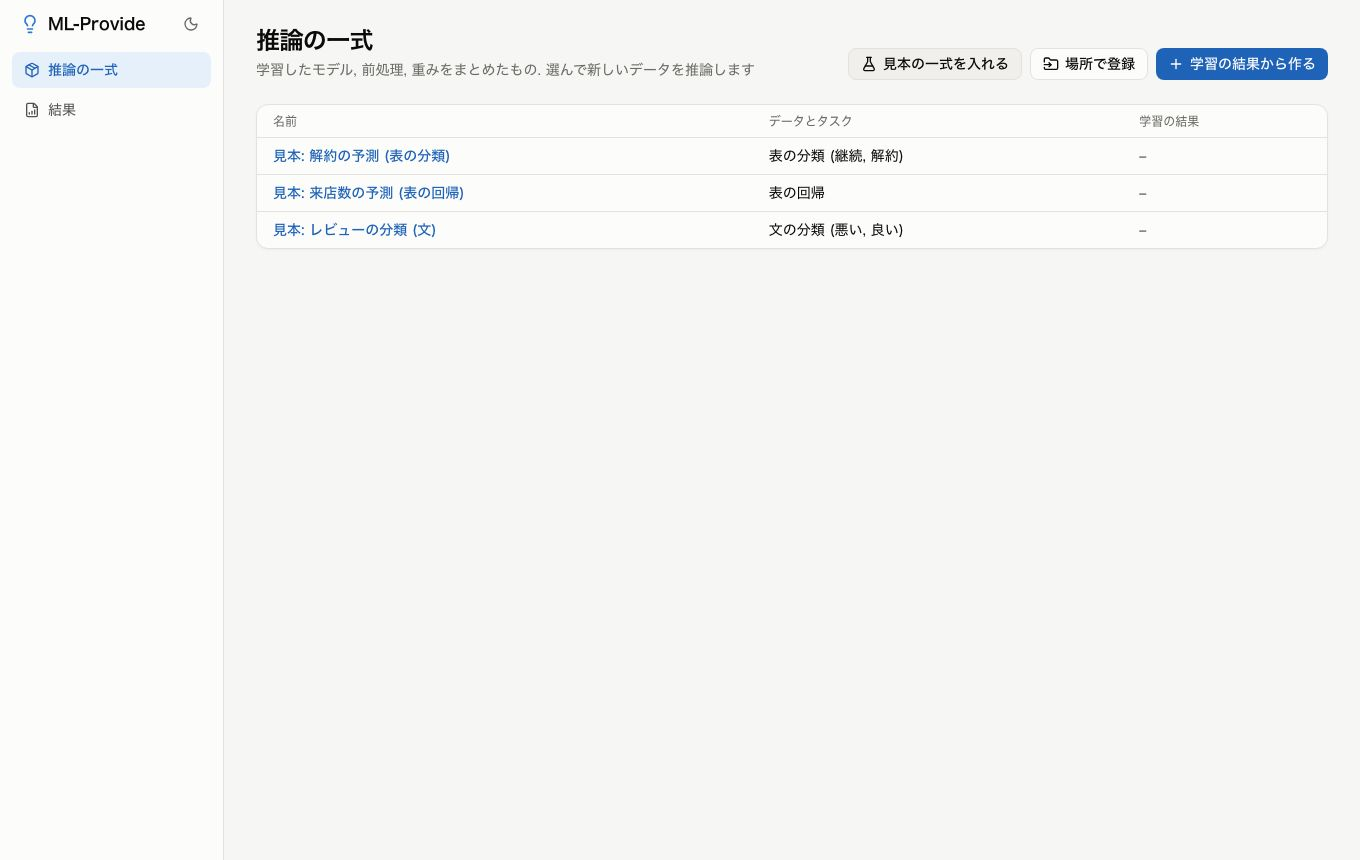
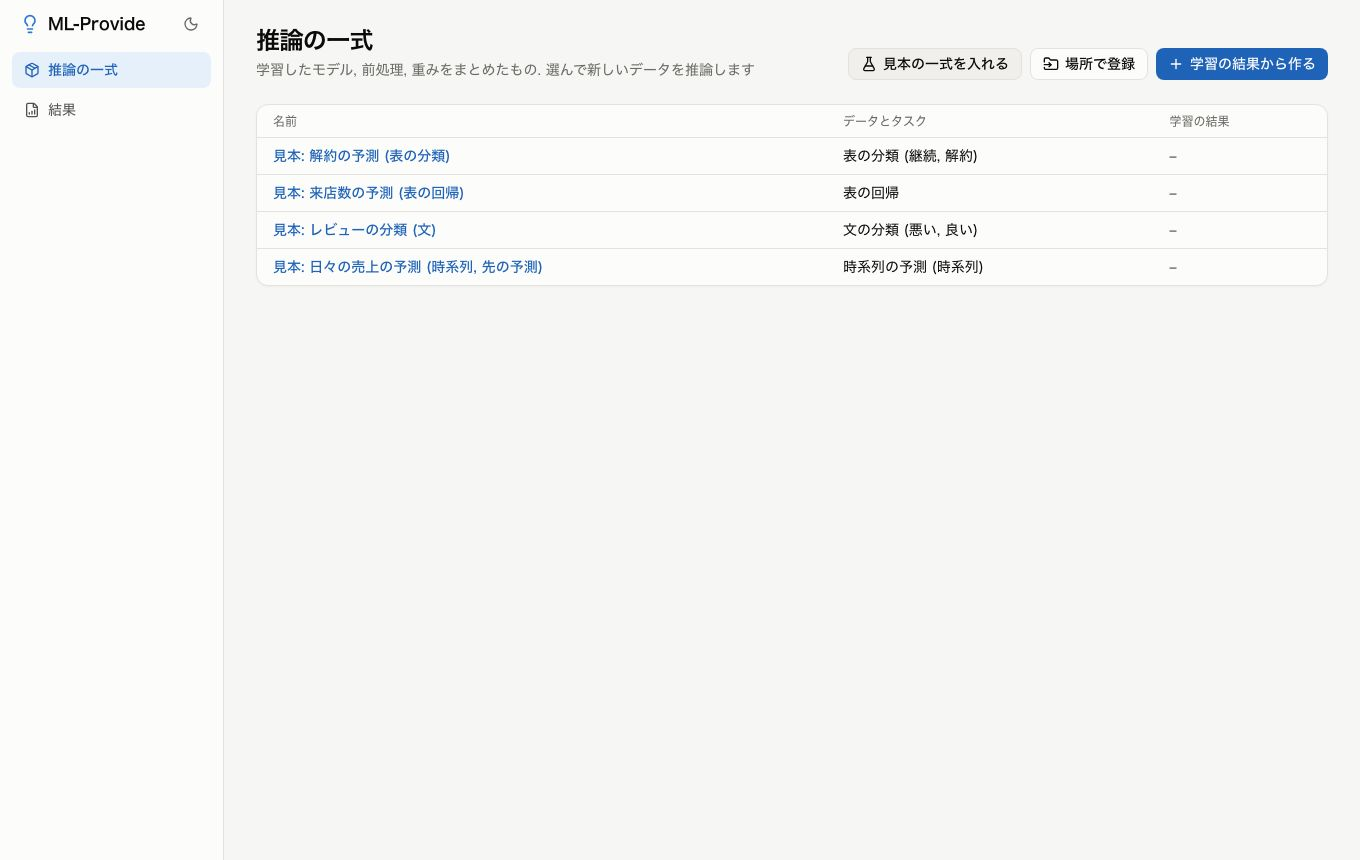
全体レビューの指摘を反映 (目的の値の標準化を求める選択, 一式の読み直し, 結果の画面の一式の確かめ, 見本の先の予測の既定, 仕様の画面を閉じる, 文書)

diff --git a/frontend/src/features/bundles/CreateBundleDialog.tsx b/frontend/src/features/bundles/CreateBundleDialog.tsx
@@ -26,6 +26,7 @@ export function CreateBundleDialog({
   const [output, setOutput] = useState('')
   const [center, setCenter] = useState('')
   const [scale, setScale] = useState('')
+  const [trainScale, setTrainScale] = useState(false)
   const [copyWeights, setCopyWeights] = useState(true)
   const create = useMutation({
     mutationFn: () => {
@@ -38,8 +39,11 @@ export function CreateBundleDialog({
         inputName.trim() && ids.length > 0
           ? { [inputName.trim()]: { source: 'items', prepend: ids } }
           : null
-      const targetScale =
-        center.trim() && scale.trim() ? { center: Number(center), scale: Number(scale) } : null
+      const targetScale = trainScale
+        ? ('train' as const)
+        : center.trim() && scale.trim()
+          ? { center: Number(center), scale: Number(scale) }
+          : null
       return api.createBundle({
         name: name.trim(),
         spec: spec.trim(),
@@ -60,8 +64,9 @@ export function CreateBundleDialog({
     problems.push('足した番号は整数で書いてください')
   if (!!inputName.trim() !== ids.length > 0)
     problems.push('先頭に番号を足した入力は, 入力の名前と番号の両方を書いてください')
-  if (!!center.trim() !== !!scale.trim()) problems.push('目的の値の中心と幅は両方を書いてください')
-  if (scale.trim() && !(Number(scale) > 0)) problems.push('幅は正の数にしてください')
+  if (!trainScale && !!center.trim() !== !!scale.trim())
+    problems.push('目的の値の中心と幅は両方を書いてください')
+  if (!trainScale && scale.trim() && !(Number(scale) > 0)) problems.push('幅は正の数にしてください')
   const ready =
     name.trim() && spec.trim() && dataset.trim() && weights.trim() && problems.length === 0
   return (
@@ -74,9 +79,9 @@ export function CreateBundleDialog({
         }}
       >
         <p className="text-xs text-ink-2">
-          モデルの定義, ML-EDA で書き出したデータセット, ML-Found の実験 (か重みのファイル)
-          を選びます. 学習用の見本を推論できることを確かめてから, このアプリの置き場に作ります
-          (元のファイルは変えません).
+          モデルの定義, ML-EDA (ML-Fathom の画面) で書き出したデータセット, ML-Found の実験
+          (か重みのファイル) を選びます. 学習用の見本を推論できることを確かめてから,
+          このアプリの置き場に作ります (元のファイルは変えません).
         </p>
         <div>
           <label htmlFor="bundle-name" className="mb-1 block text-xs font-medium text-ink-2">
@@ -152,15 +157,25 @@ export function CreateBundleDialog({
                 className={`${field} w-full font-mono`}
               />
             </div>
-            <fieldset>
+            <fieldset className="md:col-span-2">
               <legend className="mb-1 text-xs text-ink-2">
-                目的の値を (y - 中心) / 幅 にして学習した場合の中心と幅
+                目的の値を標準化して学習した場合 (回帰と予測)
               </legend>
-              <div className="flex gap-2">
+              <label className="mb-2 flex items-center gap-2 text-sm">
+                <input
+                  type="checkbox"
+                  checked={trainScale}
+                  onChange={(event) => setTrainScale(event.target.checked)}
+                />
+                学習用の分割の平均と標準偏差で標準化した (中心と幅を求める)
+              </label>
+              <div className="flex items-center gap-2">
+                <span className="text-xs text-ink-3">または (y - 中心) / 幅 の</span>
                 <input
                   aria-label="中心"
                   type="number"
                   value={center}
+                  disabled={trainScale}
                   placeholder="中心"
                   onChange={(event) => setCenter(event.target.value)}
                   className={`${field} w-28`}
@@ -169,6 +184,7 @@ export function CreateBundleDialog({
                   aria-label="幅"
                   type="number"
                   value={scale}
+                  disabled={trainScale}
                   placeholder="幅"
                   onChange={(event) => setScale(event.target.value)}
                   className={`${field} w-28`}

diff --git a/frontend/src/features/results/ExplainCard.tsx b/frontend/src/features/results/ExplainCard.tsx
@@ -7,7 +7,7 @@ import { Button, Card, ErrorBox } from '../../components/ui'
 import { formatValue } from '../../lib/format'
 
 /** 列ごとの効き (どの列が予測を動かしているか) */
-export function ExplainCard({ result }: { result: Result }) {
+export function ExplainCard({ result, bundleAlive }: { result: Result; bundleAlive: boolean }) {
   const client = useQueryClient()
   const explain = useMutation({
     mutationFn: () => api.explain(result.id),
@@ -17,6 +17,8 @@ export function ExplainCard({ result }: { result: Result }) {
   if (result.kind && !['table', 'timeseries'].includes(result.kind)) return null
   // 何段も先の予測の結果には出さない (並べ替えて推論し直すのは 1 つ先の予測のため)
   if (result.forecast) return null
+  // 一式が登録されていない (消した) 結果は, 求めた効きだけを見せる
+  if (!bundleAlive && !result.explanation) return null
   const explanation = result.explanation
   const most = Math.max(...(explanation?.columns.map((item) => item.effect ?? 0) ?? [0]), 1e-12)
   const unit = explanation?.measure === 'probability' ? '確率' : '値'
@@ -24,7 +26,11 @@ export function ExplainCard({ result }: { result: Result }) {
     <Card
       title="列の効き (どの列が予測を動かしているか)"
       actions={
-        <Button icon={Sigma} disabled={explain.isPending} onClick={() => explain.mutate()}>
+        <Button
+          icon={Sigma}
+          disabled={explain.isPending || !bundleAlive}
+          onClick={() => explain.mutate()}
+        >
           {explain.isPending ? '求めています…' : explanation ? '求め直す' : '求める'}
         </Button>
       }

diff --git a/frontend/src/features/bundles/BundlesPage.tsx b/frontend/src/features/bundles/BundlesPage.tsx
@@ -15,7 +15,11 @@ function bundleSummary(bundle: Bundle): string {
   const description = bundle.description
   if (!description) return ''
   const kind = KIND_LABELS[description.kind] ?? description.kind
-  const task = TASK_LABELS[description.task] ?? description.task
+  // 予測 (時系列) は種類と重なるので, 種類の後は「予測」だけ
+  const task =
+    description.task === 'forecasting'
+      ? '予測'
+      : (TASK_LABELS[description.task] ?? description.task)
   const classes = description.classes.length > 0 ? ` (${description.classes.join(', ')})` : ''
   return `${kind}の${task}${classes}`
 }
@@ -91,7 +95,8 @@ export function BundlesPage() {
         <EmptyState icon={Package} title="一式がありません">
           学習のスクリプトが作った一式 (inference.yaml を持つディレクトリ) を場所で登録するか,
           モデルの定義, データセット, 実験から作ります. 試すだけなら「見本の一式を入れる」で,
-          小さな見本のデータで学習した一式 (表の分類, 表の回帰, 文の分類) を入れられます.
+          小さな見本のデータで学習した一式 (表の分類, 表の回帰, 時系列の先の予測, 文の分類)
+          を入れられます.
         </EmptyState>
       )}
       {bundles.data && bundles.data.length > 0 && (

diff --git a/frontend/src/features/results/ResultPage.tsx b/frontend/src/features/results/ResultPage.tsx
@@ -319,8 +319,14 @@ export function ResultPage() {
   const client = useQueryClient()
   const result = useQuery({ queryKey: ['results', 'one', id], queryFn: () => api.result(id) })
   // 一式を消しても結果は残るので, 一式があるときだけ一式へ戻る
-  const bundles = useQuery({ queryKey: ['bundles'], queryFn: api.bundles })
-  const bundleAlive = !!bundles.data?.some((bundle) => bundle.id === result.data?.bundle_id)
+  const bundleId = result.data?.bundle_id ?? ''
+  const bundle = useQuery({
+    queryKey: ['bundles', bundleId],
+    queryFn: () => api.bundle(bundleId),
+    enabled: !!bundleId,
+    retry: false,
+  })
+  const bundleAlive = bundle.isSuccess
   const remove = useMutation({
     mutationFn: () => api.deleteResult(id),
     onSuccess: () => {
@@ -417,7 +423,7 @@ export function ResultPage() {
         {/* 出し直した後は, 使った決め方で編集を作り直す */}
         <ConcludeCard key={`conclude:${JSON.stringify(data.rules ?? {})}`} result={data} />
         <GroupTable result={data} />
-        <ExplainCard result={data} />
+        <ExplainCard result={data} bundleAlive={bundleAlive} />
         {/* 出し直した後は, 絞り込みとページを初めに戻す */}
         <RowsTable key={`rows:${JSON.stringify(data.rules ?? {})}`} result={data} />
       </div>

diff --git a/frontend/src/features/bundles/BundlePage.tsx b/frontend/src/features/bundles/BundlePage.tsx
@@ -165,7 +165,11 @@ function PredictCard({ bundle, description }: { bundle: Bundle; description: Des
                 <button
                   type="button"
                   className="text-accent-text underline"
-                  onClick={() => setSource(bundle.sample_input ?? '')}
+                  onClick={() => {
+                    // 時系列の見本は先の行を持つので, 先まで予測するのが既定
+                    setSource(bundle.sample_input ?? '')
+                    if (canForecast) setAhead(true)
+                  }}
                 >
                   見本の新しいデータ (目的の列の無い表) を使う
                 </button>

diff --git a/frontend/src/api/types.ts b/frontend/src/api/types.ts
@@ -166,7 +166,8 @@ export interface BundleCreateBody {
   inputs?: Record<string, { source: string; prepend: number[] }> | null
   output?: string | null
   kind?: string | null
-  target_scale?: { center: number; scale: number } | null
+  /** 中心と幅か, 学習用の分割の平均と標準偏差 (train) */
+  target_scale?: { center: number; scale: number } | 'train' | null
   conclusion?: Rules | null
   copy_weights: boolean
 }

diff --git a/backend/src/ml_provide/api.py b/backend/src/ml_provide/api.py
@@ -5,7 +5,7 @@ import threading
 import uuid
 from collections import OrderedDict
 from pathlib import Path
-from typing import Any, Optional
+from typing import Any, Optional, Union
 
 import ml_inference
 import pandas as pd
@@ -30,7 +30,7 @@ RESULT_LOCK = threading.Lock()
 SAMPLES_LOCK = threading.Lock()
 
 # 読み込んだ一式を覚えておく数と, 場所ごとの (更新時刻, 一式)
-BUNDLE_CACHE_SIZE = 4
+BUNDLE_CACHE_SIZE = 64
 BUNDLES: OrderedDict[str, tuple[tuple[float, ...], ml_inference.Bundle]] = (
     OrderedDict()
 )
@@ -64,7 +64,7 @@ class BundleCreate(BaseModel):
     inputs: Optional[dict[str, Any]] = None
     output: Optional[str] = None
     kind: Optional[str] = None
-    target_scale: Optional[dict[str, float]] = None
+    target_scale: Union[dict[str, float], str, None] = None
     conclusion: Optional[dict[str, Any]] = None
     copy_weights: bool = True
 

diff --git a/backend/src/ml_provide/app.py b/backend/src/ml_provide/app.py
@@ -282,9 +282,12 @@ def create_app(
     app: FastAPI
         アプリ
     """
+    # 手元のファイルを読めるので, 仕様の画面はトークン無しで見せない
+    # (仕様の書き出しは cli の --openapi)
     app = FastAPI(
         title="ML-Provide", version="0.1.0",
-        generate_unique_id_function=route_id
+        generate_unique_id_function=route_id, docs_url=None,
+        redoc_url=None, openapi_url=None
     )
 
     # 登録した一式と推論の結果の置き場をアプリに保存
